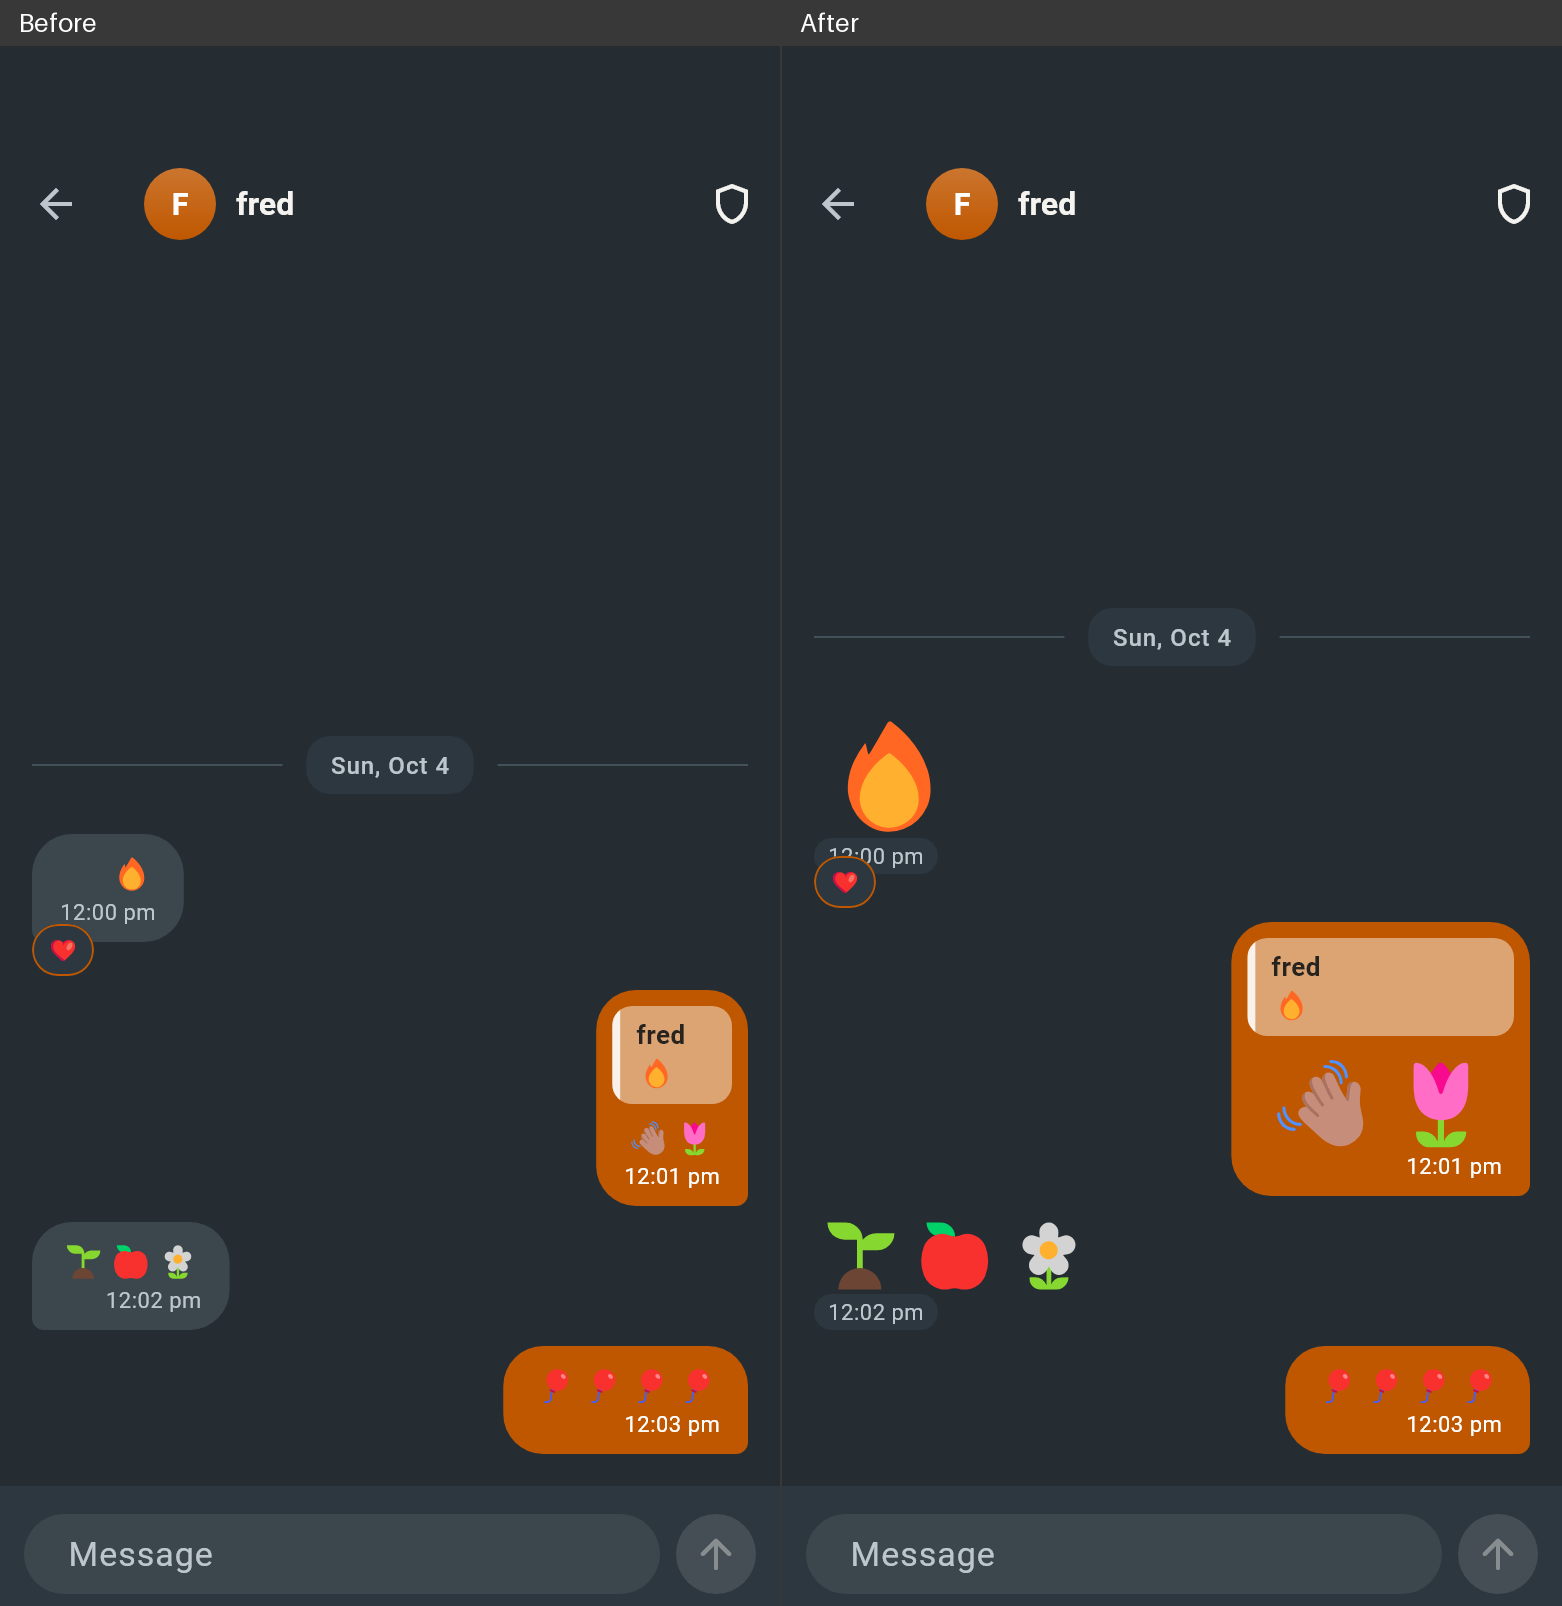
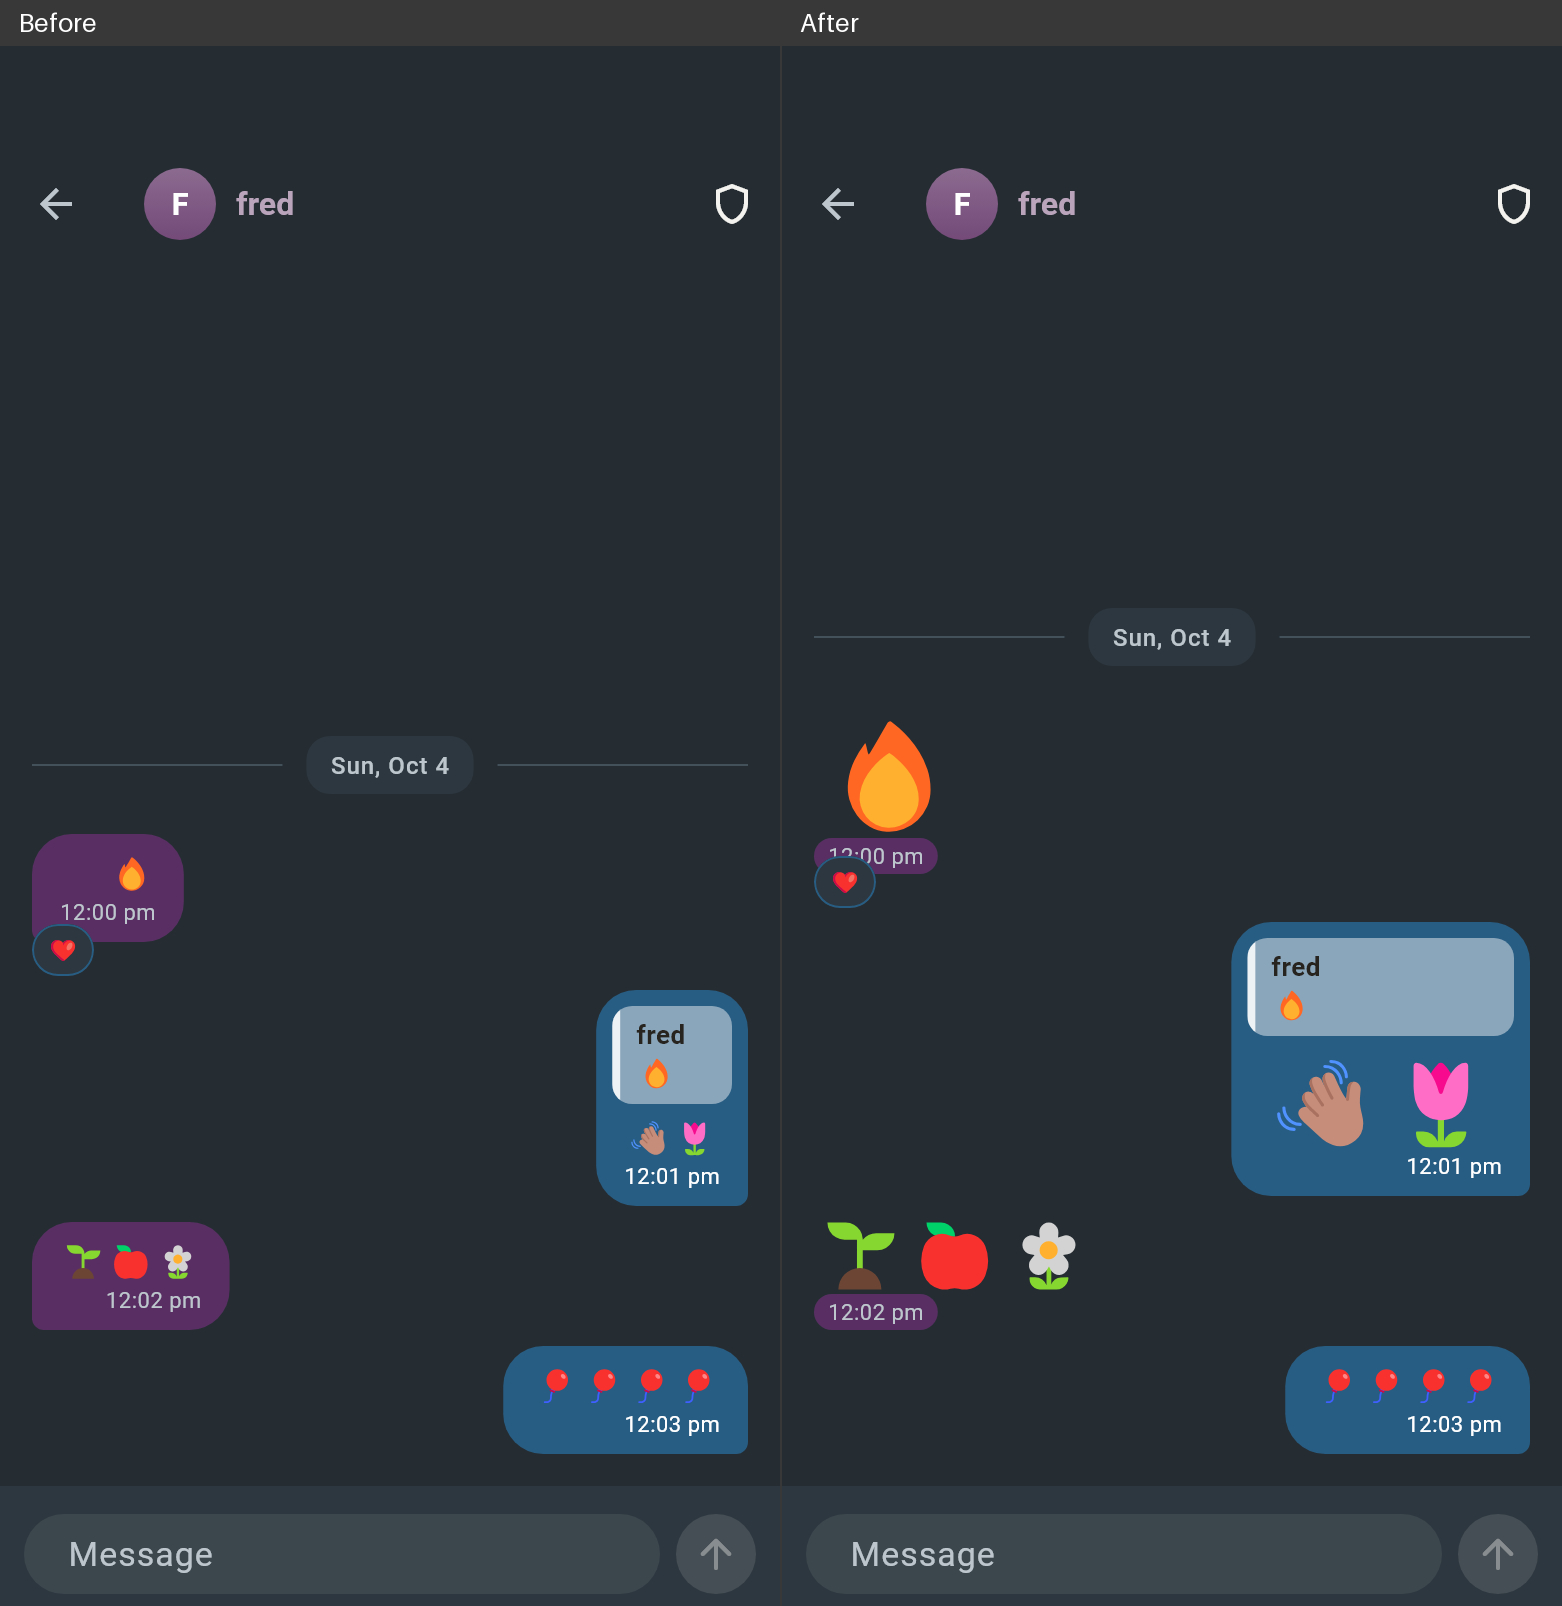
Use the sender colour for emoji timestamps

diff --git a/scripts/render/emoji_messages_test.dart b/scripts/render/emoji_messages_test.dart
@@ -2,6 +2,7 @@ import 'dart:io';
 import 'dart:ui' as ui;
 
 import 'package:fireplace/src/db/message_quote.dart';
+import 'package:fireplace/src/app/chat_color_preference.dart';
 import 'package:fireplace/src/styles/chat_colors.dart';
 import 'package:fireplace/src/styles/theme.dart';
 import 'package:fireplace/src/view/chat/chat_screen.dart';
@@ -35,6 +36,7 @@ void main() {
           addTearDown(t.view.reset);
           final fixture = UiFixture();
           await fixture.seed();
+          fixture.secrets.data[ChatAppearance.storageKey] = 'ocean';
           addTearDown(fixture.session.close);
           await fixture.chat.store.clearChat('alice_fred');
           const glyphs = ['🔥', '👋🏽🌷', '🌱🍎🌼', '🎈🎈🎈🎈'];
@@ -61,10 +63,17 @@ void main() {
             await fixture.chat.react('alice_fred', 'e0', '❤');
           }
           final key = GlobalKey();
-          final theme = fireplaceTheme(brightness);
+          final theme = fireplaceTheme(
+            brightness,
+            accent: ChatBubbleColor.ocean,
+          );
           await t.pumpWidget(
             ProviderScope(
-              overrides: fixture.overrides,
+              overrides: [
+                ...fixture.overrides,
+                knownPeerColorProvider('fred')
+                    .overrideWithValue(ChatBubbleColor.plum),
+              ],
               child: RepaintBoundary(
                 key: key,
                 child: MaterialApp(
@@ -115,30 +124,42 @@ void main() {
             ),
           );
           await settleUi(t);
+          Future<void> capture(String path) async {
+            expect(t.takeException(), isNull);
+            final boundary =
+                key.currentContext!.findRenderObject() as RenderRepaintBoundary;
+            await t.runAsync(() async {
+              final image = await boundary.toImage(pixelRatio: 2);
+              try {
+                final data = await image.toByteData(
+                  format: ui.ImageByteFormat.png,
+                );
+                File('build/emoji-review/$path.png')
+                  ..createSync(recursive: true)
+                  ..writeAsBytesSync(data!.buffer.asUint8List());
+              } finally {
+                image.dispose();
+              }
+            });
+          }
+
           if (state == 'selected') {
-            await t.longPress(find.byKey(const ValueKey('messageBubble-e0')));
+            final target = find.byKey(const ValueKey('messageBubble-e0'));
+            final gesture = await t.startGesture(t.getCenter(target));
+            for (var i = 0; i < 13; i++) {
+              await t.pump(const Duration(milliseconds: 60));
+              await capture(
+                'hold-${brightness.name}/${i.toString().padLeft(2, '0')}',
+              );
+            }
+            await gesture.up();
             await t.pumpAndSettle();
             final select = find.byKey(const ValueKey('messageAction-select'));
             await t.ensureVisible(select);
             await t.tap(select);
             await t.pumpAndSettle();
           }
-          expect(t.takeException(), isNull);
-          final boundary =
-              key.currentContext!.findRenderObject() as RenderRepaintBoundary;
-          await t.runAsync(() async {
-            final image = await boundary.toImage(pixelRatio: 2);
-            try {
-              final data = await image.toByteData(
-                format: ui.ImageByteFormat.png,
-              );
-              File('build/emoji-review/${brightness.name}-$state.png')
-                ..createSync(recursive: true)
-                ..writeAsBytesSync(data!.buffer.asUint8List());
-            } finally {
-              image.dispose();
-            }
-          });
+          await capture('${brightness.name}-$state');
         } finally {
           debugDisableShadows = originalShadows;
         }

diff --git a/test/view/chat/emoji_messages_test.dart b/test/view/chat/emoji_messages_test.dart
@@ -1,4 +1,7 @@
 import 'package:fireplace/src/db/message_quote.dart';
+import 'package:fireplace/src/app/chat_color_preference.dart';
+import 'package:fireplace/src/styles/chat_colors.dart';
+import 'package:fireplace/src/view/chat/widgets/message_bubble.dart';
 import 'package:fireplace/src/styles/theme.dart';
 import 'package:fireplace/src/view/chat/chat_screen.dart';
 import 'package:flutter/material.dart';
@@ -8,6 +11,56 @@ import 'package:flutter_test/flutter_test.dart';
 import '../../support/ui_fixture.dart';
 
 void main() {
+  for (final brightness in Brightness.values) {
+    testWidgets(
+      'timestamp pills use each sender’s chosen colour in ${brightness.name}',
+      (t) async {
+        final f = UiFixture();
+        addTearDown(f.session.close);
+        f.secrets.data[ChatAppearance.storageKey] = 'ocean';
+        await t.pumpWidget(
+          ProviderScope(
+            overrides: [
+              ...f.overrides,
+              knownPeerColorProvider('fred')
+                  .overrideWithValue(ChatBubbleColor.plum),
+            ],
+            child: MaterialApp(
+              theme: fireplaceTheme(brightness),
+              home: Scaffold(
+                body: Column(
+                  children: [
+                    MessageBubble(
+                      message: message(id: 'mine', body: '🔥', outgoing: true),
+                    ),
+                    MessageBubble(
+                      message: message(id: 'theirs', body: '🌷🌷'),
+                    ),
+                    MessageBubble(
+                      message: message(id: 'group', body: '🍎🍎🍎'),
+                      incomingColor: ChatBubbleColor.forest,
+                    ),
+                  ],
+                ),
+              ),
+            ),
+          ),
+        );
+        await settleUi(t);
+        for (final (id, fill) in [
+          ('mine', ChatBubbleColor.ocean.outgoing),
+          ('theirs', ChatBubbleColor.plum.incoming(brightness)),
+          ('group', ChatBubbleColor.forest.incoming(brightness)),
+        ]) {
+          final pill = t.widget<Container>(
+            find.byKey(ValueKey('emojiTime-$id')),
+          );
+          expect((pill.decoration as BoxDecoration).color, fill);
+        }
+      },
+    );
+  }
+
   testWidgets('one to three emoji lose the bubble, four and replies keep it', (
     t,
   ) async {

diff --git a/lib/src/view/chat/widgets/message_bubble_body.dart b/lib/src/view/chat/widgets/message_bubble_body.dart
@@ -4,7 +4,6 @@ import 'package:flutter_riverpod/flutter_riverpod.dart';
 import 'package:fireplace/src/app/providers.dart';
 import 'package:fireplace/src/db/local_messages.dart';
 import 'package:fireplace/src/model/chat/message_format.dart';
-import 'package:fireplace/src/styles/design_tokens.dart';
 import 'package:fireplace/src/view/chat/message_edit_history.dart';
 import 'package:fireplace/src/view/chat/widgets/message_quote_preview.dart';
 
@@ -151,12 +150,13 @@ class MessageBubbleBody extends ConsumerWidget {
           ),
         const SizedBox(height: 2),
         Container(
+          key: bare ? ValueKey('emojiTime-${message.id}') : null,
           padding: bare
               ? const EdgeInsets.symmetric(horizontal: 7, vertical: 2)
               : textInset,
           decoration: bare
               ? BoxDecoration(
-                  color: FireplaceUiTokens.of(context).panel,
+                  color: base,
                   borderRadius: BorderRadius.circular(12),
                 )
               : null,

diff --git a/lib/src/view/chat/widgets/message_bubble.dart b/lib/src/view/chat/widgets/message_bubble.dart
@@ -367,7 +367,7 @@ class _MessageBubbleState extends ConsumerState<MessageBubble> {
                         outgoingFailed:
                             widget.outgoingSend?.state == OutgoingState.failed,
                         hasOutgoingSend: widget.outgoingSend != null,
-                        secondaryText: mine && !bare ? fg : t.secondaryText,
+                        secondaryText: mine ? fg : t.secondaryText,
                         onToggleShowAll: () =>
                             setState(() => _showAll = !_showAll),
                         onToggleSelection: widget.onToggleSelection,

diff --git a/docs/reviews/247-emoji-messages/compare.py b/docs/reviews/247-emoji-messages/compare.py
@@ -1,13 +1,14 @@
 """Compare matching renders from two checkouts. Run from the repository root."""
 import sys
+import subprocess
 from pathlib import Path
 
 from PIL import Image, ImageDraw, ImageFont
 
 before, after = map(Path, sys.argv[1:])
 dest = Path(__file__).parent
-for path in sorted(after.glob("*.png")):
-    left, right = Image.open(before / path.name), Image.open(path)
+def compare(path):
+    left, right = Image.open(before / path.relative_to(after)), Image.open(path)
     width, height = right.size
     comparison = Image.new("RGB", (width * 2 + 2, height + 46), "#383838")
     draw = ImageDraw.Draw(comparison)
@@ -15,4 +16,16 @@ for path in sorted(after.glob("*.png")):
     for x, label, panel in [(0, "Before", left), (width + 2, "After", right)]:
         comparison.paste(panel, (x, 46))
         draw.text((x + 18, 6), label, font=font, fill="white")
-    comparison.save(dest / path.name, optimize=True)
+    return comparison
+
+
+for path in sorted(after.glob("*.png")):
+    compare(path).save(dest / path.name, optimize=True)
+
+for folder in sorted(after.glob("hold-*")):
+    frames = Path("build/emoji-comparisons") / folder.name
+    frames.mkdir(parents=True, exist_ok=True)
+    for path in sorted(folder.glob("*.png")):
+        compare(path).save(frames / path.name)
+    subprocess.run([sys.executable, "scripts/render/frames_to_gif.py", str(frames), "100"], check=True)
+    (dest / (folder.name + ".gif")).write_bytes(frames.with_suffix(".gif").read_bytes())

diff --git a/docs/reviews/247-emoji-messages/README.md b/docs/reviews/247-emoji-messages/README.md
@@ -1,5 +1,5 @@
 # Emoji messages
 
-Each comparison shows the same fictional messages on main (left) and this branch (right). The sent and received conversations each show one, two, three and four emoji. The reply example includes a quote and a reaction. The selected example shows the chat's selection controls. The group example uses real group message rows with sender names and avatars. The large example is 320 logical pixels wide with 200% text.
+Each comparison shows the same fictional messages on main (left) and this branch (right). The sent and received conversations each show one, two, three and four emoji. The reply example includes a quote and a reaction. The selected example shows the chat's selection controls. The group example uses real group message rows with sender names and avatars. The timestamp uses Ocean for sent messages, Plum for received messages and Forest for the other group member. The hold recordings show the timestamp as the message menu opens. The large example is 320 logical pixels wide with 200% text.
 
 Run `TZ=UTC RENDER_EMOJI_FONT=/path/to/emoji-font.ttf flutter test scripts/render/emoji_messages_test.dart` in both checkouts, using the same render script and font. These images used the Windows Segoe UI Emoji font. Run `python docs/reviews/247-emoji-messages/compare.py <before>/build/emoji-review build/emoji-review` on the feature branch to label the comparisons.
